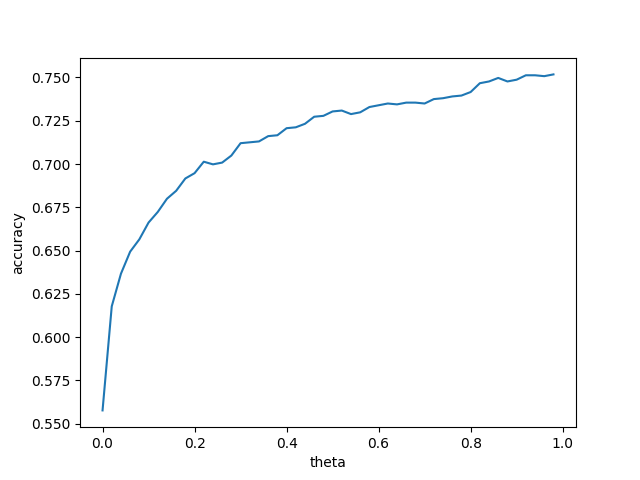
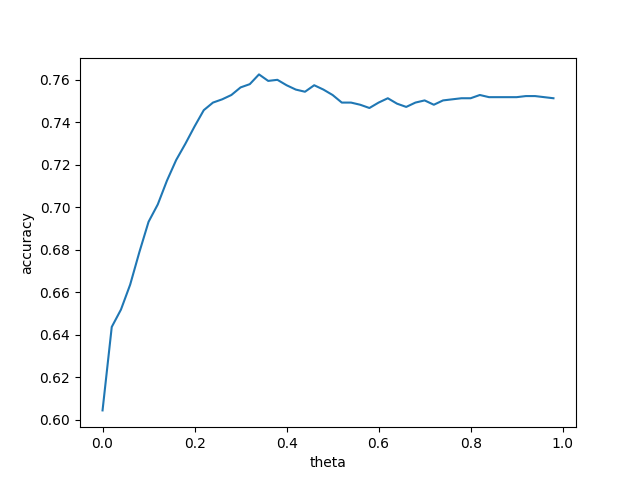
results

diff --git a/Proposed Method/result_evaluation/evaluate_proposed_method.py b/Proposed Method/result_evaluation/evaluate_proposed_method.py
@@ -104,7 +104,7 @@ def plots_checking(theta_values, accuracy_values, precision_values, recall_value
 
 def check_accuracy_measures(file_name, theta):
     df = pd.read_csv(file_name, encoding = "utf-8")
-    y_tfidf = df[["refd_tfidf"]]
+    y_tfidf = df[["refd_equal"]]
     y_truth = df[["relation"]]
     data = check_estimation(y_tfidf, y_truth, theta)
     return data
